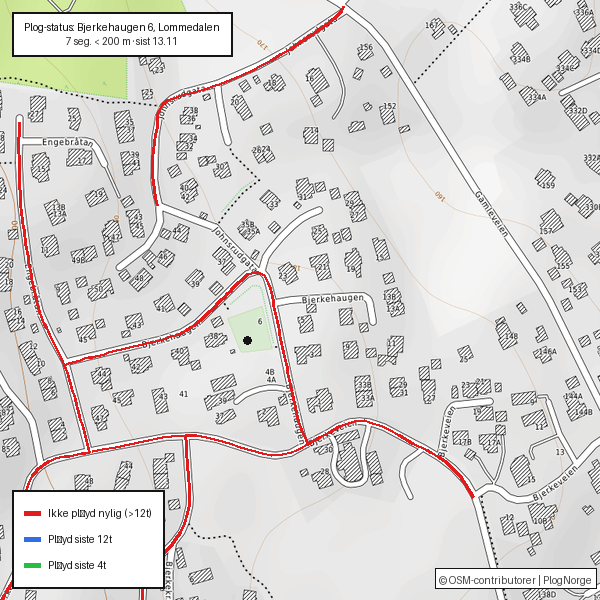
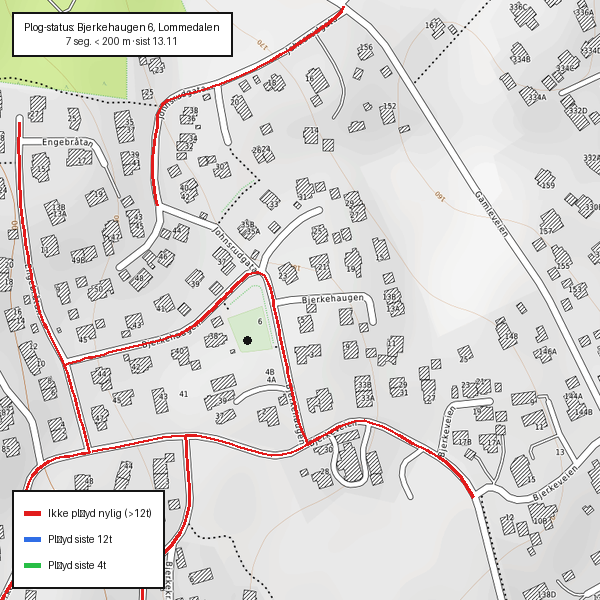
Remove bottom-right attribution box

Changed region(s): [[0.72, 0.93, 1.0, 0.99]]

diff --git a/render_map.py b/render_map.py
@@ -219,12 +219,7 @@ def render_map(segments, out_path="plowmap.png"):
         row_mid=row_top+row_h//2
         d.line([(bx0+pad2,row_mid),(bx0+pad2+swatch_w,row_mid)],fill=clr,width=5)
         d.text((bx0+pad2+swatch_w+swatch_gap,row_mid),lb,font=ft,anchor="lm",fill=(20,20,20))
-    
-    # Attribution
-    a="© OSM-contributorer | PlogNorge"; ab=d.textbbox((0,0),a,font=ft); aw=ab[2]-ab[0]
-    d.rectangle([IMG_W-aw-12,IMG_H-32,IMG_W-4,IMG_H-12],fill=(255,255,255),outline=(20,20,20),width=1)
-    d.text((IMG_W-aw-8,IMG_H-26),a,font=ft,fill=(70,70,70))
-    
+
     base.save(out_path)
     print(f"  saved {out_path} ({IMG_W}x{IMG_H})")
     return out_path
